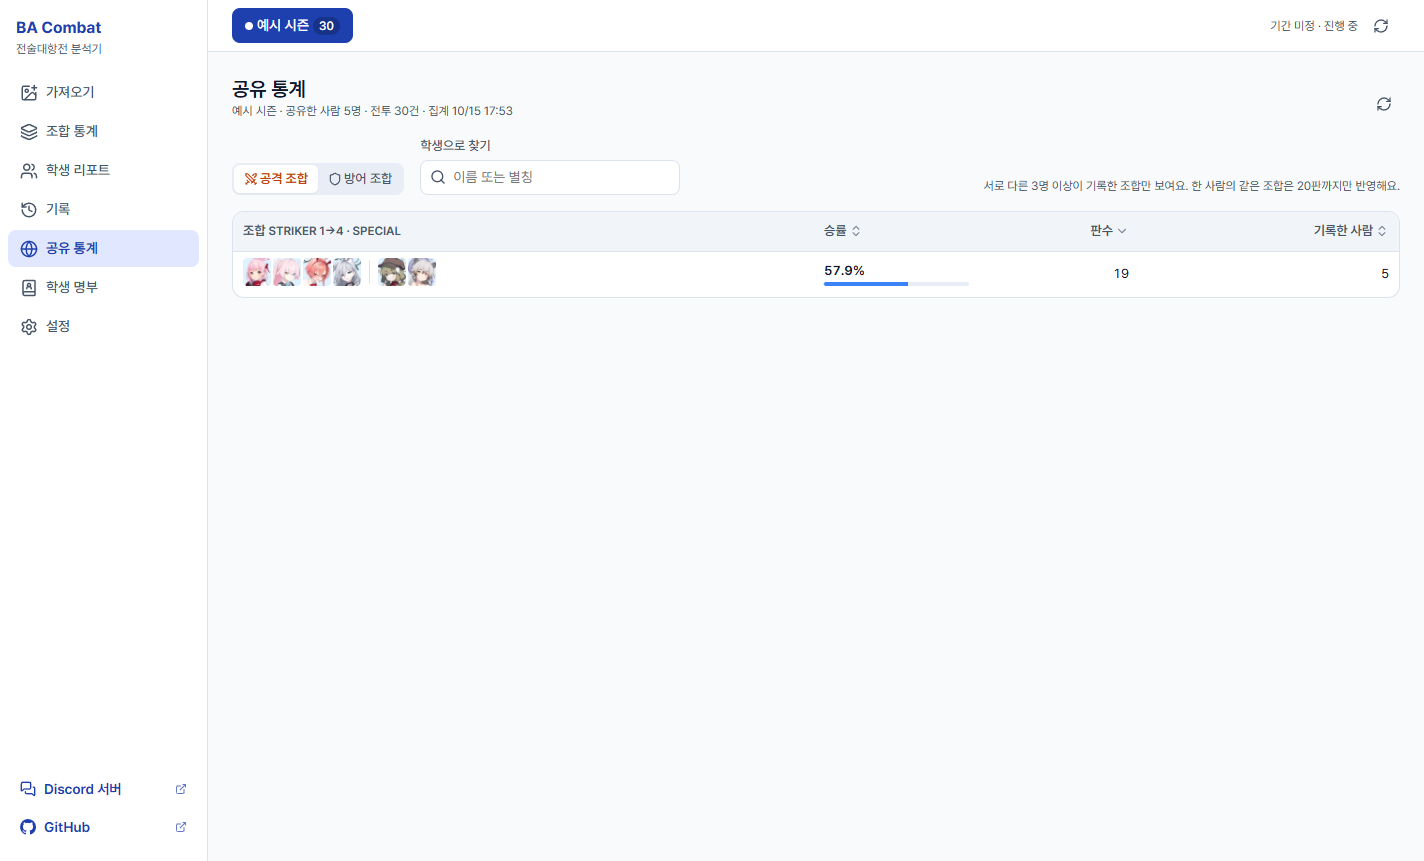
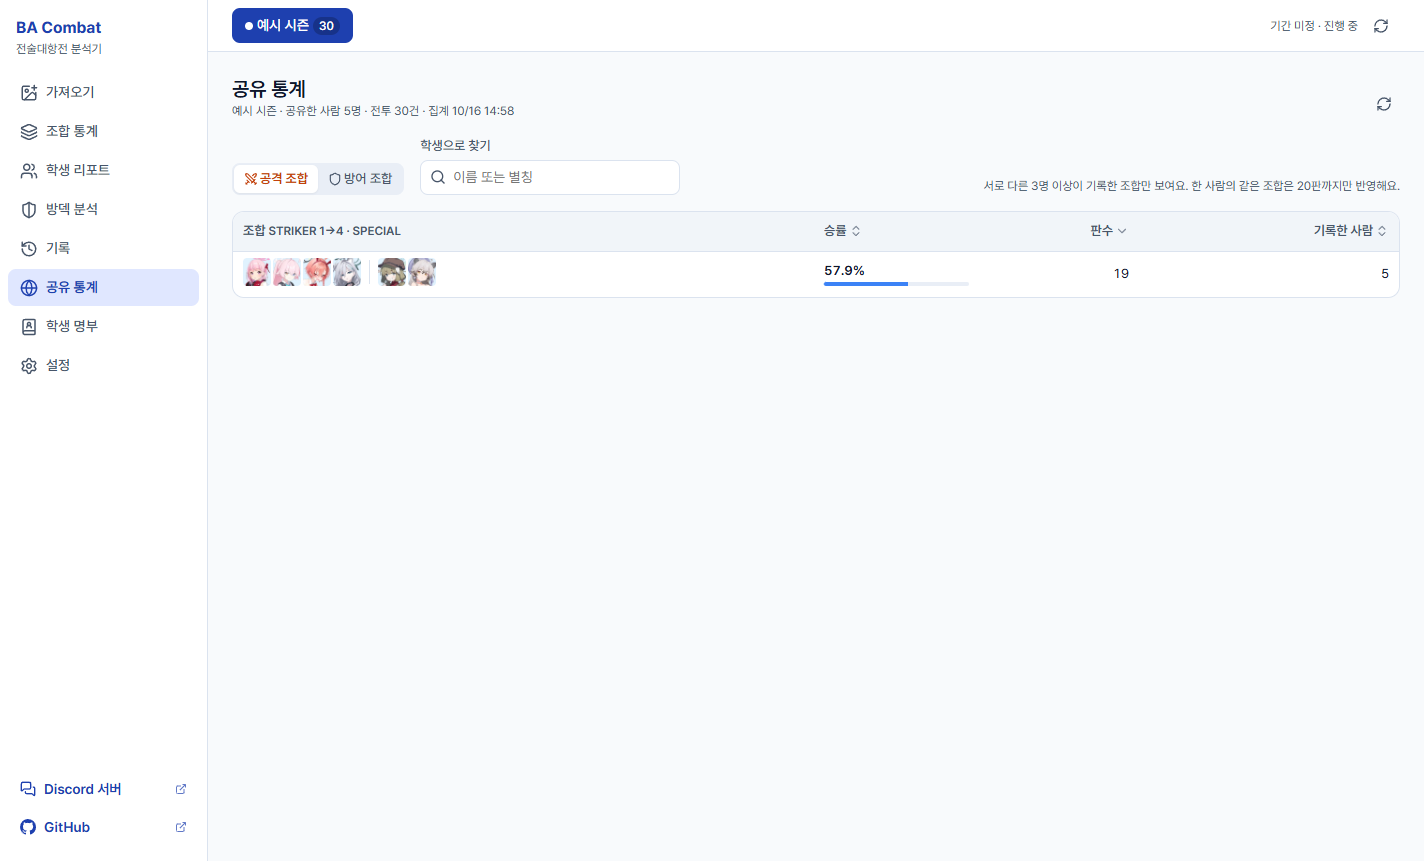
Describe the defense analysis, owned students and battle time
- New 방덱 분석 section with screenshots (opponent decks, counters)
- Roster mentions owned students; data folder lists opponents.json
- Privacy: nicknames are never read automatically; opponent names and notes you type stay on this
  device (local backups only, not synced, not restored by logging in); battle time and owned
  students are part of synced records
- Screenshots refreshed (records show linked opponents, import review shows the battle time)

Changed region(s): [[0.0, 0.2114, 0.1545, 0.3926], [0.3399, 0.1208, 0.3708, 0.151]]

diff --git a/README.md b/README.md
@@ -64,13 +64,27 @@
   - **내 편으로 썼을 때 / 상대로 만났을 때**: 내 입장에서 본 승률
 - "공유 통계" 보기로 바꾸면 여러 사람이 공유한 기록으로 본 학생별 등장률·승률·배치 순서를 볼 수 있습니다([공유 통계](#공유-통계-웹-버전-선택)).
 
+### 방덱 분석
+
+![방덱 분석: 상대별 방덱](docs/images/defense.png)
+
+내 기록만으로 기기 안에서 계산합니다.
+
+- **상대별 방덱**: 공격 리포트를 저장할 때(또는 나중에) 상대를 고르거나 새 이름을 붙이면, 그 상대의 최근 방덱 n회와 방덱이 바뀐 것으로 보인 횟수, 내 승패를 보여 줍니다. 닉네임을 읽지 않으므로 상대 이름은 직접 붙이며, 같은 사람으로 확인되면 합칠 수 있습니다.
+- **카운터 찾기**: 고른 방덱과 싸운 내 공격덱을 같은 방덱 / 같은 학생·스트라이커 배치만 다름 / 비슷한 방덱(4~5명 같음, 참고용)으로 나눠 승률과 함께 보여 줍니다. 판수가 적은 100%보다 표본이 큰 높은 승률이 위에 오도록 정렬하고, **학생 명부에서 보유 학생을 체크하면** 지금 짤 수 있는 덱만 골라 볼 수 있습니다.
+- **내 방덱을 뚫은 덱**: 내 방덱별 방어 승률과, 그 방덱을 만난 공격덱의 승률(만난 모든 판 기준)을 보여 줍니다.
+- 전투 시각은 스크린샷 파일 시각을 기본으로 쓰고, 가져오기·기록 화면에서 고칠 수 있습니다. 시각을 모르는 기록이 섞이면 순서와 변경 횟수를 "추정"이라고 표시합니다.
+- 상대 이름·메모는 이 기기에만 저장됩니다([개인정보 보호](#개인정보-보호)).
+
+![방덱 분석: 카운터 찾기](docs/images/counters.png)
+
 ### 학생 프로필과 명부
 
 ![학생 프로필](docs/images/profile.png)
 
 - 학생을 누르면 프로필이 열립니다: 공격·방어 타입(상성 한 줄과 함께), 무기(예: 저격소총 SR), 사거리, 엄폐 가능 여부, 포지션, 역할, 학교, 지형 적성(시가지·야외·실내, S 이상은 강조). 형태가 여럿인 학생은 형태를 골라 볼 수 있습니다.
 - **스킬**: EX(코스트 포함)·기본·강화·서브 스킬을 게임 아이콘과 함께 최고 레벨 수치로 보여 주고, 설명 속 수치는 굵게 표시합니다. 애용품·고유무기로 강화된 효과는 카드 안에서 바꿔 볼 수 있습니다.
-- **학생 명부**에는 공격·방어 타입과 무기가 함께 나옵니다. 학생마다 별칭을 붙여 검색할 수 있습니다.
+- **학생 명부**에는 공격·방어 타입과 무기가 함께 나옵니다. 학생마다 별칭을 붙여 검색할 수 있고, **보유 학생**을 체크해 둘 수 있습니다("내 기록에서 찾기"로 내가 쓴 학생을 한 번에 확인). 보유 목록은 로그인하면 계정과 동기화됩니다.
 - **기본 별칭**: 운영자가 학생마다 자주 쓰는 별칭을 기본으로 정해 둡니다(점선 칩과 "기본" 표시). 고치면 그 목록이 내 별칭이 되고, "기본값으로"로 되돌릴 수 있습니다. 기본 별칭은 검색에만 쓰고 스크린샷 인식에는 쓰지 않습니다.
 
 ![학생 명부 화면](docs/images/roster.png)
@@ -129,15 +143,16 @@
 ### 기기 밖으로 보내지 않는 것
 
 - **스크린샷과 이미지는 어디로도 보내지 않습니다.** 인식(이미지 처리·글자 인식)은 전부 PC나 브라우저 안에서 하며, 외부 AI·LLM 서비스를 쓰지 않습니다. 로그인해 동기화해도 이미지는 각 기기에만 남습니다.
-- **게임 닉네임은 글자로 읽지 않습니다.** 전투 기록(텍스트)에도, 서버에도 들어가지 않습니다. 다만 이 기기에 저장되는 리포트 이미지에는 원본 그대로 보입니다.
+- **게임 닉네임을 자동으로 읽지 않습니다.** 전투 기록(텍스트)에도, 서버에도 들어가지 않습니다. 다만 이 기기에 저장되는 리포트 이미지에는 원본 그대로 보입니다.
+- **방덱 분석의 상대 이름·메모는 이 기기에만 저장합니다.** 상대 이름은 사용자가 직접 붙입니다. 이 이름·메모와 "어느 공격이 어느 상대였는지"의 연결은 로컬 백업 파일(ZIP)에는 들어가지만, 서버 동기화·공유 통계·서버 데이터 내려받기에는 들어가지 않으므로 새 기기에서 로그인해도 복구되지 않습니다. 실제 닉네임을 이름으로 적었다면 그 이름이 이 기기와 백업 파일에 남는다는 점에 유의해 주세요.
 - **데스크톱 앱에는 계정 기능이 없습니다.** 기록은 PC 안에만 저장됩니다.
 - 앱이 인터넷에서 **받기만** 하는 것: 학생 목록·스킬(이 리포의 `data` 브랜치 또는 SchaleDB), 학생 아이콘(SchaleDB), 공식 시즌 목록·기본 별칭·공유 통계(웹 버전 사이트). 이때 내 기록이나 식별 정보를 함께 보내지 않습니다.
 
 ### 로그인(웹 버전, 선택)했을 때
 
 - Discord 로그인은 **사용자 ID와 표시 이름만** 받는 최소 권한(`identify`)을 씁니다. 이메일, 참여 중인 서버 목록, 친구 목록은 받지 않고, Discord 접근 토큰도 저장하지 않습니다.
-- 서버에 올리는 것: 시즌, 전투 기록(학생·딜량·공격/방어·승패, 스크린샷 파일의 해시값), 별칭, 화면·인식 설정, Discord 사용자 ID와 이름
-- 올리지 않는 것: 스크린샷과 이미지, 게임 닉네임, 이메일, 위치 정보
+- 서버에 올리는 것: 시즌, 전투 기록(학생·딜량·공격/방어·승패, 전투 시각, 스크린샷 파일의 해시값), 별칭, 보유 학생 목록, 화면·인식 설정, Discord 사용자 ID와 이름
+- 올리지 않는 것: 스크린샷과 이미지, 게임 닉네임, 방덱 분석의 상대 이름·메모와 연결, 이메일, 위치 정보
 - 서버 기록은 그 계정만 볼 수 있습니다. 다른 사람의 기록을 보는 기능은 앱에도, 관리 화면에도 없습니다. (서버 데이터베이스를 관리하는 운영자는 기술적으로 저장된 기록에 접근할 수 있습니다.)
 - 설정에서 언제든 **서버 데이터 파일로 받기**로 내 서버 기록을 내려받을 수 있고, **계정 삭제**를 누르면 서버의 계정과 기록이 바로 지워집니다. 브라우저에 있는 기록은 남습니다.
 - 쿠키는 로그인을 유지하는 것 하나(30일)와 로그인 도중 잠깐 쓰는 것 하나(10분)뿐입니다. 광고·분석 도구나 다른 회사의 추적 스크립트는 쓰지 않고, 사이트의 보안 정책(CSP)으로 외부 스크립트가 실행되지 않게 막아 두었습니다.
@@ -212,6 +227,7 @@ Get-FileHash .\BA-Combat-<버전>-portable.exe -Algorithm SHA256
 | `roster.json` | 학생 명부(속성 포함), 내 별칭 |
 | `settings.json` | 화면·인식 설정 |
 | `official-seasons.json` | 받아 둔 공식 시즌 목록 |
+| `opponents.json` | 방덱 분석의 상대 이름·메모와 연결 (이 기기에만, 서버로 보내지 않음) |
 | `alias-presets.json` | 받아 둔 기본 별칭 (백업에는 넣지 않음) |
 | `student-skills.json` | 받아 둔 학생 스킬 (백업에는 넣지 않음) |
 | `battles/` | 저장한 전투 리포트 이미지 |
